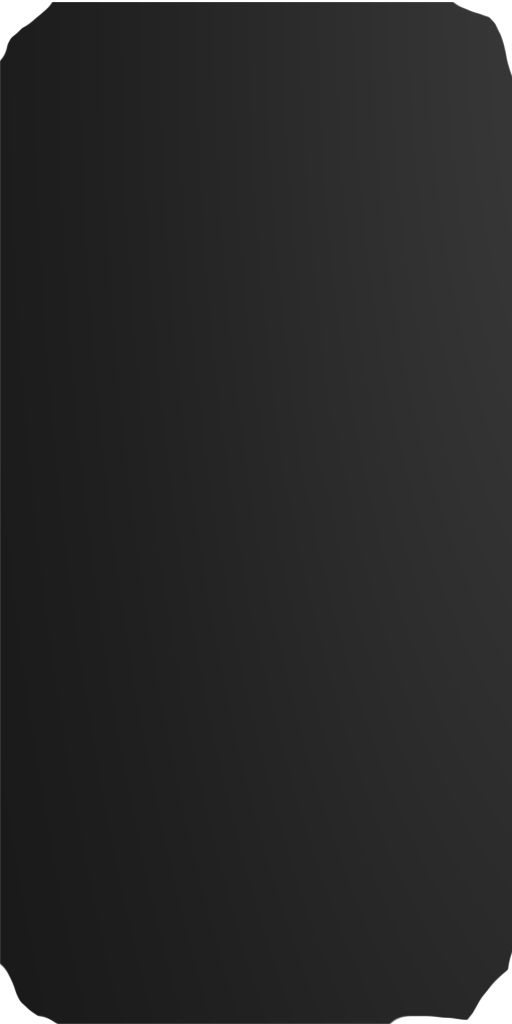
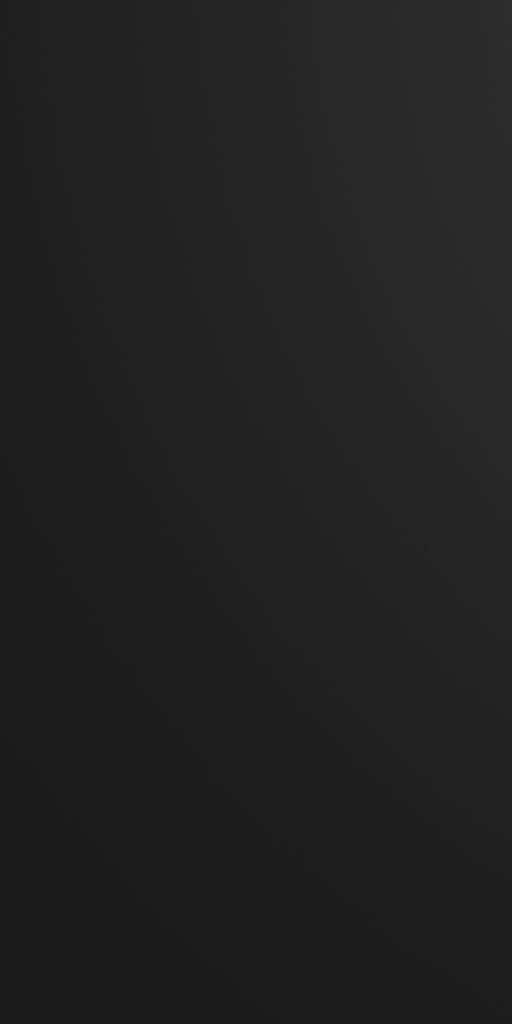
fixing profile data fetching, sizing in homepage and background correction.

diff --git a/ProjectGagSpeak/UI/MainUi/Tabs/HomeTab.cs b/ProjectGagSpeak/UI/MainUi/Tabs/HomeTab.cs
@@ -158,11 +158,10 @@ public class HomeTab
         var drawRegion = drawMax - drawMin;
 
         winPtr.DrawList.PushClipRect(drawMin, drawMax, false);
-        // Grey gradient fade.
-        winPtr.DrawList.AddRectFilledMultiColor(drawMin, drawMax, 0xCC3D3D3D, 0xCC333333, 0xCC141414, 0xCC1E1E1E);
+        winPtr.DrawList.AddRectFilled(drawMin, drawMax, 0xCC333333, style.WindowRounding, DFlags.RoundCornersBottom);
 
         // Image Background (Use placeholder for now)
-        if (CosmeticService.TryGetBackground(PlateElement.Plate, KinkPlateBG.Default, out var wrap) && wrap is { } bgWrap)
+        if (CosmeticService.TryGetBackground(PlateElement.PlateLight, KinkPlateBG.Default, out var wrap) && wrap is { } bgWrap)
         {
             // Ensure it is drawn at the correct scale.
             var drawWidth = drawMax.X - drawMin.X;
@@ -174,7 +173,7 @@ public class HomeTab
 
             // We use a very low alpha hex for the stacked images. 
             uint blurColor = 0x15444444;
-            uint centerColor = 0x22444444;
+            uint centerColor = 0x44444444;
             Span<Vector2> offsets =
             [
                 new(-blurRadius, -blurRadius), new(blurRadius, -blurRadius),
@@ -185,10 +184,10 @@ public class HomeTab
 
             // Fake blur effect.
             foreach (var offset in offsets)
-                winPtr.DrawList.AddImage(bgWrap.Handle, drawMin + offset, imgMax + offset, Vector2.Zero, Vector2.One, blurColor);
+                winPtr.DrawList.AddImageRounded(bgWrap.Handle, drawMin + offset, imgMax + offset, Vector2.Zero, Vector2.One, blurColor, style.WindowRounding, DFlags.RoundCornersBottom);
             // Image center overlay.
-            winPtr.DrawList.AddImage(bgWrap.Handle, drawMin, imgMax, Vector2.Zero, Vector2.One, centerColor);
-            
+            winPtr.DrawList.AddImageRounded(bgWrap.Handle, drawMin, imgMax, Vector2.Zero, Vector2.One, centerColor, style.WindowRounding, DFlags.RoundCornersBottom);
+
             // Get bottom fade transition and solid, and draw if nessisary
             var fadeHeight = drawHeight * 0.15f;
             var fadeTopY = imgMax.Y - fadeHeight;
@@ -201,7 +200,7 @@ public class HomeTab
                 if (imgMax.Y < drawMax.Y)
                 {
                     var solidTop = new Vector2(drawMin.X, imgMax.Y);
-                    winPtr.DrawList.AddRectFilled(solidTop, drawMax, 0xFF000000);
+                    winPtr.DrawList.AddRectFilled(solidTop, drawMax, 0xFF000000, style.WindowRounding, DFlags.RoundCornersBottom);
                 }
             }
         }
@@ -277,7 +276,6 @@ public class HomeTab
         // Creation Date
         var formattedDate = MainHub.OwnUserData.CreatedOn ?? DateTime.MinValue;
         var createdDate = formattedDate != DateTime.MinValue ? formattedDate.ToString("d", CultureInfo.CurrentCulture) : "MM-DD-YYYY";
-        ImGui.Spacing();
         using (ImRaii.Group())
         {
             using (ImRaii.PushColor(ImGuiCol.Text, 0xFF888888))
@@ -302,7 +300,6 @@ public class HomeTab
         }
         CkGui.AttachTooltip("Your current achievement progress.");
 
-        ImGui.Spacing();
         using (ImRaii.Group())
         {
             using (ImRaii.PushColor(ImGuiCol.Text, 0xFF211098))
@@ -383,7 +380,8 @@ public class HomeTab
         var winPtr = ImGuiInternal.GetCurrentWindow();
         var style = ImGui.GetStyle();
 
-        ImGui.Dummy(new Vector2(ImUtf8.FrameHeight));
+        ImGui.Spacing();
+        ImGui.Spacing();
 
         // Draw out the heading
         using (Fonts.HeaderFont.Push())

diff --git a/ProjectGagSpeak/Services/ConnectionSyncService.cs b/ProjectGagSpeak/Services/ConnectionSyncService.cs
@@ -97,13 +97,16 @@ public sealed class ConnectionSyncService : DisposableMediatorSubscriberBase
         if (response is null)
             return;
 
+        Logger.LogDebug($"ConnectionResponse: {response}, response UID {response.User.UID}, curProfile {_connections.CurrentProfileUID}");
+        
         var curProfile = _connections.CurrentProfileUID;
-        if (curProfile == response.User.UID)
-            return;
-        // Profile was different, process changes and send to IntroUI if nessisary.
-        Logger.LogInformation($"Profile UID changed: {curProfile} -> {response.User.UID}");
-        // This ensures all of the below configs get properly loaded in after this change occurs, so we can track when it finishes loading in everything.
-        _connections.SetCurrentProfile(response.User.UID);
+        if (curProfile != response.User.UID)
+        {
+            // Profile was different, process changes and send to IntroUI if nessisary.
+            Logger.LogInformation($"Profile UID changed: {curProfile} -> {response.User.UID}");
+            // This ensures all of the below configs get properly loaded in after this change occurs, so we can track when it finishes loading in everything.
+            _connections.SetCurrentProfile(response.User.UID);
+        }
 
         // Send them to the intro screen if the service account is not valid.
         if (!_config.Data.HasValidSetup() || !_accountConfig.Current.HasValidSetup())

diff --git a/ProjectGagSpeak/GagSpeak.cs b/ProjectGagSpeak/GagSpeak.cs
@@ -57,7 +57,6 @@ public sealed class GagSpeak : IDalamudPlugin
         _ = _host.StartAsync();
         // Init the fonts
         _ = Fonts.InitializeFonts().ConfigureAwait(false);
-
     }
 
     // Method that creates the host builder for the GagSpeak plugin
@@ -281,16 +280,16 @@ public static class GagSpeakServiceExtensions
         .AddSingleton<AlarmManager>()
         .AddSingleton<CacheStateManager>()
         .AddSingleton<CursedLootManager>()
-        .AddSingleton<GagRestrictionManager>()
-        .AddSingleton<CollarManager>()
         .AddSingleton<ModPresetManager>()
+        .AddSingleton<CollarManager>()
+        .AddSingleton<GagRestrictionManager>()
         .AddSingleton<BuzzToyManager>()
-        .AddSingleton<VibeLobbyManager>()
         .AddSingleton<PatternManager>()
         .AddSingleton<PuppeteerManager>()
         .AddSingleton<RestraintManager>()
         .AddSingleton<RestrictionManager>()
         .AddSingleton<TriggerManager>()
+        .AddSingleton<VibeLobbyManager>()
 
         // UI (Probably mostly in Scoped)
         .AddSingleton<AccountInfoExchanger>()

diff --git a/ProjectGagSpeak/UI/MainUi/MainUI.cs b/ProjectGagSpeak/UI/MainUi/MainUI.cs
@@ -85,16 +85,13 @@ public class MainUI : WindowMediatorSubscriberBase
         Flags |= WFlags.NoDocking;
 
         this.PinningClickthroughFalse();
-        this.SetBoundaries(new Vector2(MAIN_UI_WIDTH, 535), new Vector2(MAIN_UI_WIDTH, 2000));
+        this.SetBoundaries(new Vector2(MAIN_UI_WIDTH, 550), new Vector2(MAIN_UI_WIDTH, 2000));
         TitleBarButtons = new TitleBarButtonBuilder()
             .Add(FAI.Book, "Changelog", () => Mediator.Publish(new UiToggleMessage(typeof(ChangelogUI))))
             .Add(FAI.Cog, "Settings", () => Mediator.Publish(new UiToggleMessage(typeof(SettingsUi))))
             .AddTutorial(_guides, TutorialType.MainUi)
             .Build();
 
-        // Default to open if the user desires for it to be open.
-        if (_config.Data.OpenUiOnStartup)
-            Toggle();
         // Update the tab menu selection.
         _tabMenu.TabSelection = _config.Data.MainUiTab;
 

diff --git a/ProjectGagSpeak/Configuration/MainConfig.cs b/ProjectGagSpeak/Configuration/MainConfig.cs
@@ -16,7 +16,6 @@ namespace GagSpeak.PlayerClient;
 public class MainConfigData : IAudioConfigData
 {
     public Version? LastRunVersion { get; set; } = null;
-    public string LastUidLoggedIn { get; set; } = "";
 
     public bool AcknowledgementUnderstood { get; set; } = false;
     public bool ButtonUsed { get; set; } = false;
@@ -142,7 +141,7 @@ public class MainConfig : IHybridSavable, IAudioConfig<MainConfigData>, IDisposa
 
     [JsonIgnore] public DateTime LastWriteTimeUTC { get; private set; } = DateTime.MinValue;
     [JsonIgnore] public HybridSaveType SaveType => HybridSaveType.Json;
-    public int ConfigVersion => 1;
+    public int ConfigVersion => 2;
     public int LogFilterVersion => 1;
     public int MaxBackups => 4;
     public string ToFilePath(GsFiles files) => files.MainConfig;

diff --git a/ProjectGagSpeak/UI/Settings/ProfilesTab.cs b/ProjectGagSpeak/UI/Settings/ProfilesTab.cs
@@ -509,8 +509,7 @@ public class ProfilesTab
             }
 
             // Update the last logged in UID.
-            _mainConfig.Data.LastUidLoggedIn = string.Empty;
-            _mainConfig.Save();
+            _connections.SetCurrentProfile(string.Empty);
 
             // Extract the UID's so that we know what folders to delete in our config. (If we want to, we could keep them as a backup, idk)
             var accountUids = MainHub.ConnectionResponse?.AccountProfileUids ?? [];

diff --git a/ProjectGagSpeak/UI/Profiles/KinkPlateLightUI.cs b/ProjectGagSpeak/UI/Profiles/KinkPlateLightUI.cs
@@ -42,7 +42,7 @@ public class KinkPlateLightUI : WindowMediatorSubscriberBase
     public override void PreDraw()
     {
         ImGui.PushStyleVar(ImGuiStyleVar.WindowPadding, Vector2.Zero);
-        ImGui.PushStyleVar(ImGuiStyleVar.WindowRounding, 35f * ImGuiHelpers.GlobalScale);
+        ImGui.PushStyleVar(ImGuiStyleVar.WindowRounding, 40 * ImGuiHelpers.GlobalScale);
         base.PreDraw();
     }
 
